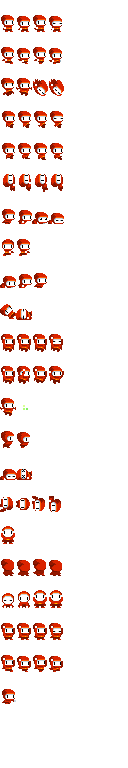
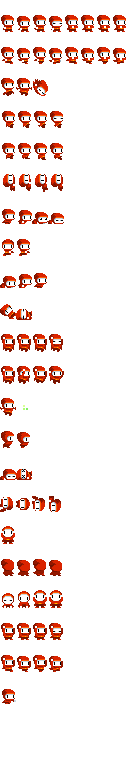
orb can shoot

Changed region(s): [[0.5, 0.0, 1.0, 0.0938], [0.375, 0.0938, 0.5, 0.125]]

diff --git a/Platformer/Objects/Main/Player.cs b/Platformer/Objects/Main/Player.cs
@@ -18,6 +18,7 @@ using Platformer.Objects.Effects.Emitters;
 using Platformer.Objects.Items;
 using Platformer.Util;
 using SPG.Save;
+using Platformer.Objects.Main.Orbs;
 using SPG.Map;
 
 namespace Platformer.Objects.Main
@@ -431,8 +432,8 @@ namespace Platformer.Objects.Main
                 if (obstacle != null)
                 {
                     var vec = Position - (obstacle.Center + new Vector2(0, 0));
-                    var angle = vec.ToAngle();                    
-                    Hit(obstacle.Damage, angle);
+                    var angle = vec.VectorToAngle();                    
+                    Hit(obstacle.Damage, (float)angle);
                 }                
             }
 
@@ -554,15 +555,24 @@ namespace Platformer.Objects.Main
 
             // ++++ attacking ++++
 
-            if (k_attackPressed)
-            {
-                //if (Orb.State == Orb.OrbState.FOLLOW)
+            if (k_attackHolding && !inWater && HP > 0 
+                && (State == PlayerState.IDLE 
+                || State == PlayerState.WALK 
+                || State == PlayerState.TURN_AROUND 
+                || State == PlayerState.JUMP_UP 
+                || State == PlayerState.JUMP_DOWN
+                || State == PlayerState.GET_UP))
+            {                
                     Orb.State = OrbState.ATTACK;
-            }
-            if (k_attackReleased)
+            } else
             {
-                Orb.State = OrbState.IDLE;
+                if (Orb.State == OrbState.ATTACK)
+                    Orb.State = OrbState.IDLE;
             }
+            //if (k_attackReleased || inWater || HP == 0)
+            //{
+            //    Orb.State = OrbState.IDLE;
+            //}
 
             // ++++++++++++++++++++++++++++++
             // INTERACTION WITH OTHER OBJECTS
@@ -1226,12 +1236,12 @@ namespace Platformer.Objects.Main
                     }
                 }
                 
-                swimAngle = new Vector2(Math.Sign((int)Direction) * Math.Max(Math.Abs(sx), 1), sy).ToAngle() + 90;
+                swimAngle = (float)new Vector2(Math.Sign((int)Direction) * Math.Max(Math.Abs(sx), 1), sy).VectorToAngle() + 90;
 
                 if (State == PlayerState.SWIM_DIVE_IN)
                 {
                     //swimAngle = 180;
-                    swimAngle = new Vector2(XVel, YVel).ToAngle() + 90;
+                    swimAngle = (float)new Vector2(XVel, YVel).VectorToAngle() + 90;
                     targetAngle = swimAngle;
                 }
 
@@ -1454,10 +1464,12 @@ namespace Platformer.Objects.Main
             {
                 case PlayerState.IDLE:
                     row = 0;
+                    offset = 4 * Convert.ToInt32(Orb?.State == OrbState.ATTACK);
                     fSpd = 0.03f;
                     break;
-                case PlayerState.WALK:                    
+                case PlayerState.WALK:
                     row = 1;
+                    offset = 4 * Convert.ToInt32(Orb?.State == OrbState.ATTACK);
                     fSpd = 0.1f;
                     break;
                 case PlayerState.TURN_AROUND:                    

diff --git a/Platformer/Objects/Main/Orbs/Orb.cs b/Platformer/Objects/Main/Orbs/Orb.cs
@@ -8,7 +8,7 @@ using System.Linq;
 using System.Text;
 using System.Threading.Tasks;
 
-namespace Platformer.Objects.Main
+namespace Platformer.Objects.Main.Orbs
 {
     public enum OrbState
     {
@@ -25,9 +25,12 @@ namespace Platformer.Objects.Main
         private Vector2 targetPosition;
         private int headBackTimer;
 
+
+        private int cooldown;
+
         public Orb(Player player) : base(player.X, player.Y)
         {
-            Texture = AssetManager.Orb;
+            //Texture = AssetManager.Orb;
             Scale = new Vector2(.5f);
 
             BoundingBox = new RectF(-4, -4, 8, 8);
@@ -35,8 +38,7 @@ namespace Platformer.Objects.Main
             Depth = player.Depth + .0001f;
 
             Parent = player;
-
-            //DebugEnabled = true;
+            targetPosition = player.Position;
         }
 
         public override void BeginUpdate(GameTime gameTime)
@@ -44,6 +46,8 @@ namespace Platformer.Objects.Main
             base.BeginUpdate(gameTime);
 
             targetPosition += new Vector2(player.XVel, player.YVel);
+
+            cooldown = Math.Max(cooldown - 1, 0);
 
             switch (State)
             {
@@ -70,8 +74,32 @@ namespace Platformer.Objects.Main
                     targetPosition = player.Position + new Vector2(Math.Sign((int)player.Direction) * 12, 12 * Math.Sign((int)player.LookDirection));
                     MoveTowards(targetPosition, 6);
                     Move(player.XVel, player.YVel);
+
+                    // attack projectiles
+
+                    if (cooldown == 0)
+                    {
+                        cooldown = 10;
+
+                        var proj = new StarProjectile(X, Y);
+
+                        var degAngle = MathUtil.VectorToAngle(new Vector2(targetPosition.X - player.X, targetPosition.Y - player.Y));
+                        
+                        proj.XVel = (float)MathUtil.LengthDirX(degAngle) * 3;
+                        proj.YVel = (float)MathUtil.LengthDirY(degAngle) * 3;
+                    }
+
                     break;                
             }            
+        }
+
+        public override void Draw(SpriteBatch sb, GameTime gameTime)
+        {
+            //base.Draw(sb, gameTime);
+
+            sb.Draw(AssetManager.Orb, Position, null, Color, Angle, DrawOffset, Scale, SpriteEffects.None, Depth);
+            //if (State == OrbState.ATTACK)
+            //    sb.Draw(AssetManager.OrbReflection, Position, null, new Color(Color, .75f), Angle, DrawOffset, Scale, SpriteEffects.None, Depth + .0001f);
         }
     }
 }

diff --git a/SPG/Util/MathUtil.cs b/SPG/Util/MathUtil.cs
@@ -40,14 +40,14 @@ namespace SPG.Util
             return angle * (180.0 / Math.PI);
         }
 
-        public static float ToAngle(this Vector2 vector, bool inRadiant = false)
+        public static double VectorToAngle(this Vector2 vector, bool inRadiant = false)
         {
-            var rad = (float)Math.Atan2(vector.Y, vector.X);
+            var rad = Math.Atan2(vector.Y, vector.X);
 
             if (inRadiant)
                 return rad;
 
-            return (float)(rad / (2f * Math.PI)) * 360;
+            return RadToDeg(rad);
         }
 
         public static Vector2 Vector2(this Vector3 vec)
@@ -55,17 +55,17 @@ namespace SPG.Util
             return new Vector2(vec.X, vec.Y);
         }
 
-        public static double LengthDirX(float angle)
+        public static double LengthDirX(double degAngle)
         {
-            var rad = (angle / 360f) * 2 * Math.PI;
+            var rad = (degAngle / 360f) * 2 * Math.PI;
 
             return Math.Cos(rad);
             
         }
 
-        public static double LengthDirY(float angle)
+        public static double LengthDirY(double degAngle)
         {
-            var rad = (angle / 360f) * 2 * Math.PI;
+            var rad = (degAngle / 360f) * 2 * Math.PI;
 
             return Math.Sin(rad);
         }

diff --git a/Platformer/Objects/Main/GameManager.cs b/Platformer/Objects/Main/GameManager.cs
@@ -5,6 +5,7 @@ using Platformer.Objects.Effects.Emitters;
 using Platformer.Objects.Enemy;
 using Platformer.Objects.Items;
 using Platformer.Objects.Level;
+using Platformer.Objects.Main.Orbs;
 using SPG.Map;
 using SPG.Objects;
 using SPG.Save;
@@ -109,15 +110,15 @@ namespace Platformer.Objects.Main
         public void UnloadRoomObjects(Room room)
         {
             // gather all objects which are inside the specified room
-            var aliveObjects = ObjectManager.Objects.Where(
-                o => o is RoomObject
-                && (o as RoomObject).Room == room)
-                .ToList();
+            //var aliveObjects = ObjectManager.Objects.Where(
+            //    o => o is RoomObject
+            //    && (o as RoomObject).Room == room)
+            //    .ToList();
 
-            foreach (var o in aliveObjects)
-            {
-                o.Destroy();
-            }
+            //foreach (var o in aliveObjects)
+            //{
+            //    o.Destroy();
+            //}
 
             // TODO: add all objects that are alive and should be killed
 

diff --git a/Platformer/Objects/Main/Orbs/StarProjectile.cs b/Platformer/Objects/Main/Orbs/StarProjectile.cs
@@ -1,0 +1,39 @@
+using System;
+using System.Collections.Generic;
+using System.Linq;
+using System.Text;
+using System.Threading.Tasks;
+using Microsoft.Xna.Framework;
+using Platformer.Main;
+using SPG.Map;
+using SPG.Objects;
+using SPG.Util;
+
+namespace Platformer.Objects.Main.Orbs
+{
+    public class StarProjectile : GameObject
+    {
+        public StarProjectile(float x, float y) : base(x, y)
+        {
+            //Texture = AssetManager.Ouch;
+
+            BoundingBox = new RectF(-2, -2, 4, 4);
+            DebugEnabled = true;
+        }
+
+        public override void Update(GameTime gameTime)
+        {
+            base.Update(gameTime);
+
+            Move(XVel, YVel);
+
+            var solid = GameManager.Current.Map.CollisionTile(X, Y);
+
+            var cam = RoomCamera.Current;
+            var outOfView = X < cam.ViewX || Y < cam.ViewY || X > cam.ViewX + cam.ViewWidth || Y > cam.ViewY + cam.ViewHeight;
+
+            if (solid || outOfView)
+                Destroy();
+        }
+    }
+}

diff --git a/Platformer/Objects/Main/AssetManager.cs b/Platformer/Objects/Main/AssetManager.cs
@@ -50,10 +50,11 @@ namespace Platformer.Objects.Main
         public static TextureSet ToolTip { get; private set; }
         public static Texture2D WaterMill { get; private set; }
         public static Texture2D WaterMillPlatform { get; private set; }
-        
+
         // orb
 
         public static Texture2D Orb { get; private set; }
+        public static Texture2D OrbReflection { get; private set; }
 
         // fonts
 
@@ -90,6 +91,7 @@ namespace Platformer.Objects.Main
 
             var orbSheet = content.Load<Texture2D>("orb");
             Orb = orbSheet.Crop(new Rectangle(0, 0, 32, 32));
+            OrbReflection = orbSheet.Crop(new Rectangle(0, 32, 32, 32));
 
             MessageBox = content.Load<Texture2D>("messageBox");
             HUD = content.Load<Texture2D>("hud");
